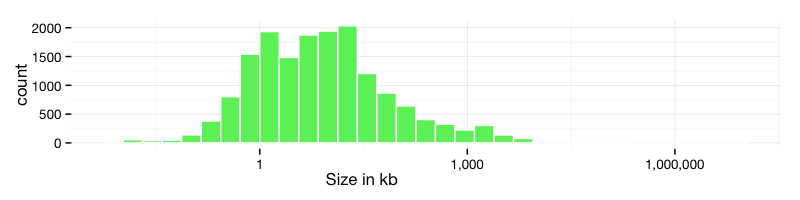
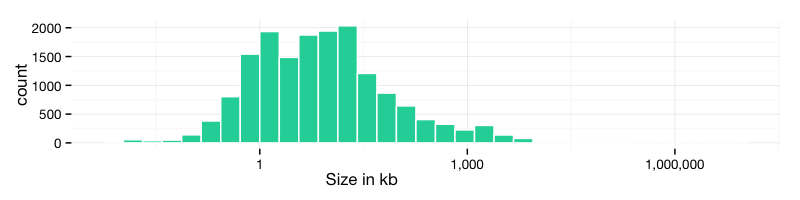
Colour update

Changed region(s): [[0.1562, 0.12, 0.6875, 0.72]]

diff --git a/csv-stats/the_status_of_csvs_on_data.gov.uk.md b/csv-stats/the_status_of_csvs_on_data.gov.uk.md
@@ -75,6 +75,20 @@ After much experimentation we managed to automatically read 7,390 CSV-files. All
 
 ![header-length](https://raw.github.com/theodi/R-projects/master/csv-stats/graphics/header-length-histogram.png)
 
+What are the most popular header names? We had to clean up a lot of the names because in its raw format, you'll get "amount", " amount", "AMUONT" etc. After some [Open Refine](http://openrefine.org) magic, we get the following table.
+
+<table> class="table offers table-horizontally-condensed”>
+ <tr><td>Expense Type</td><td>3,144</td></tr>
+ <tr><td>Entity</td><td>3,039</td></tr>
+ <tr><td>Expense Area</td><td>3,029</td></tr>
+ <tr><td>Supplier</td><td>2,889</td></tr>
+ <tr><td>Date</td><td>2,820</td></tr>
+ <tr><td>Transaction Number</td><td>2,791</td></tr>
+ <tr><td>Amount</td><td>2,734</td></tr>
+ <tr><td>Department Family</td><td>2,498</td></tr>
+ <tr><td>VAT Registration Number</td><td>916</td></tr>
+ <tr><td>Convictions Percentage</td><td>836</td></tr>
+</table>
 
 
 
